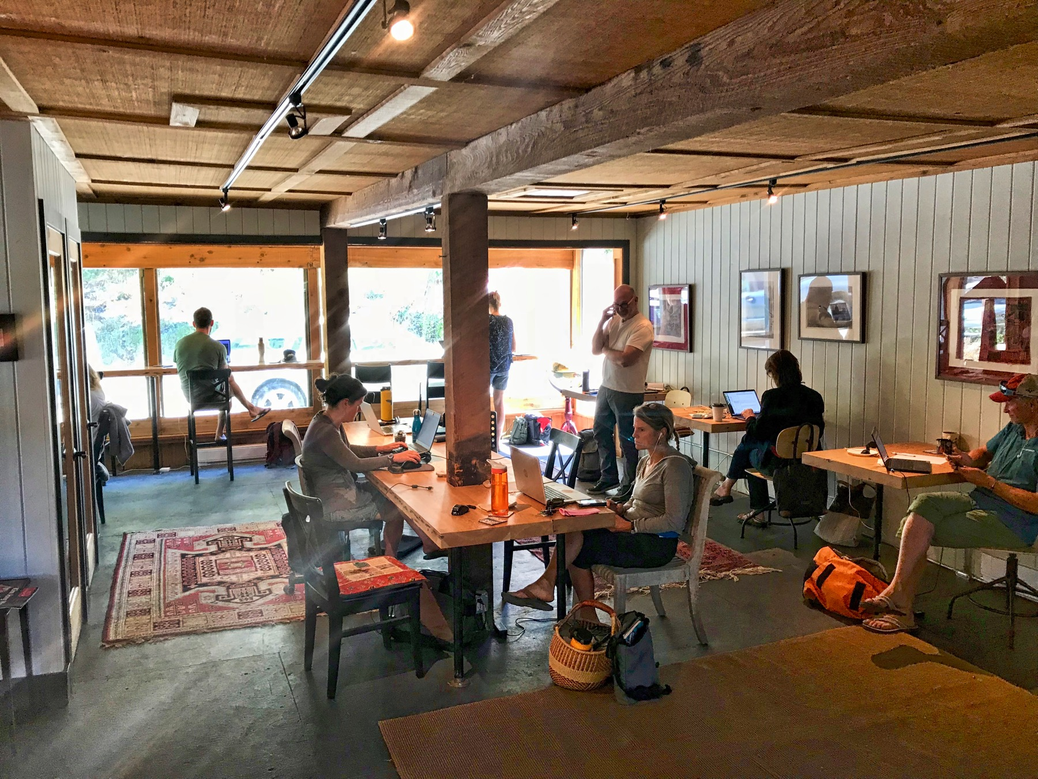
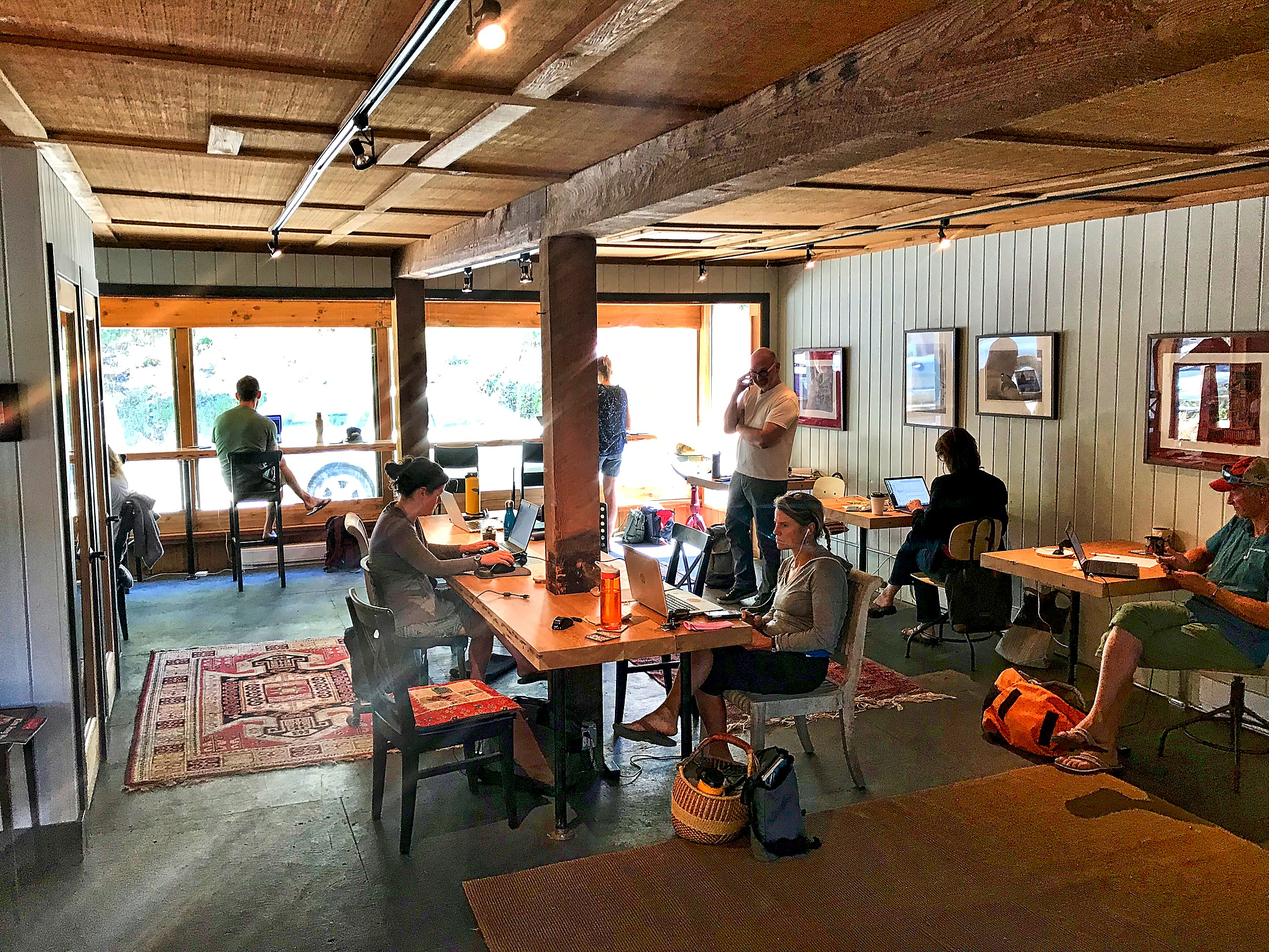
Re-render Built for focus photo at higher quality
Reprocesses IMG_0947 from the original TIFF rather than the prior sips
JPEG: resamples to 2200px wide with Lanczos, applies a subtle unsharp
mask, and gives a small contrast/saturation/brightness lift so the wood
beams and warm tones read crisper. Saved as quality-90 progressive JPEG.

Bumps image cache-bust to v=7.

diff --git a/index.html b/index.html
@@ -55,7 +55,7 @@
 
                 <!-- Big photo: the space -->
                 <a href="#pricing" class="tile tile-photo tile-space reveal">
-                    <img src="images/space-interior.jpg?v=6" alt="" />
+                    <img src="images/space-interior.jpg?v=7" alt="" />
                     <div class="tile-photo-overlay">
                         <p class="tile-label">The space</p>
                         <h3 class="tile-headline">Built for focus.</h3>
